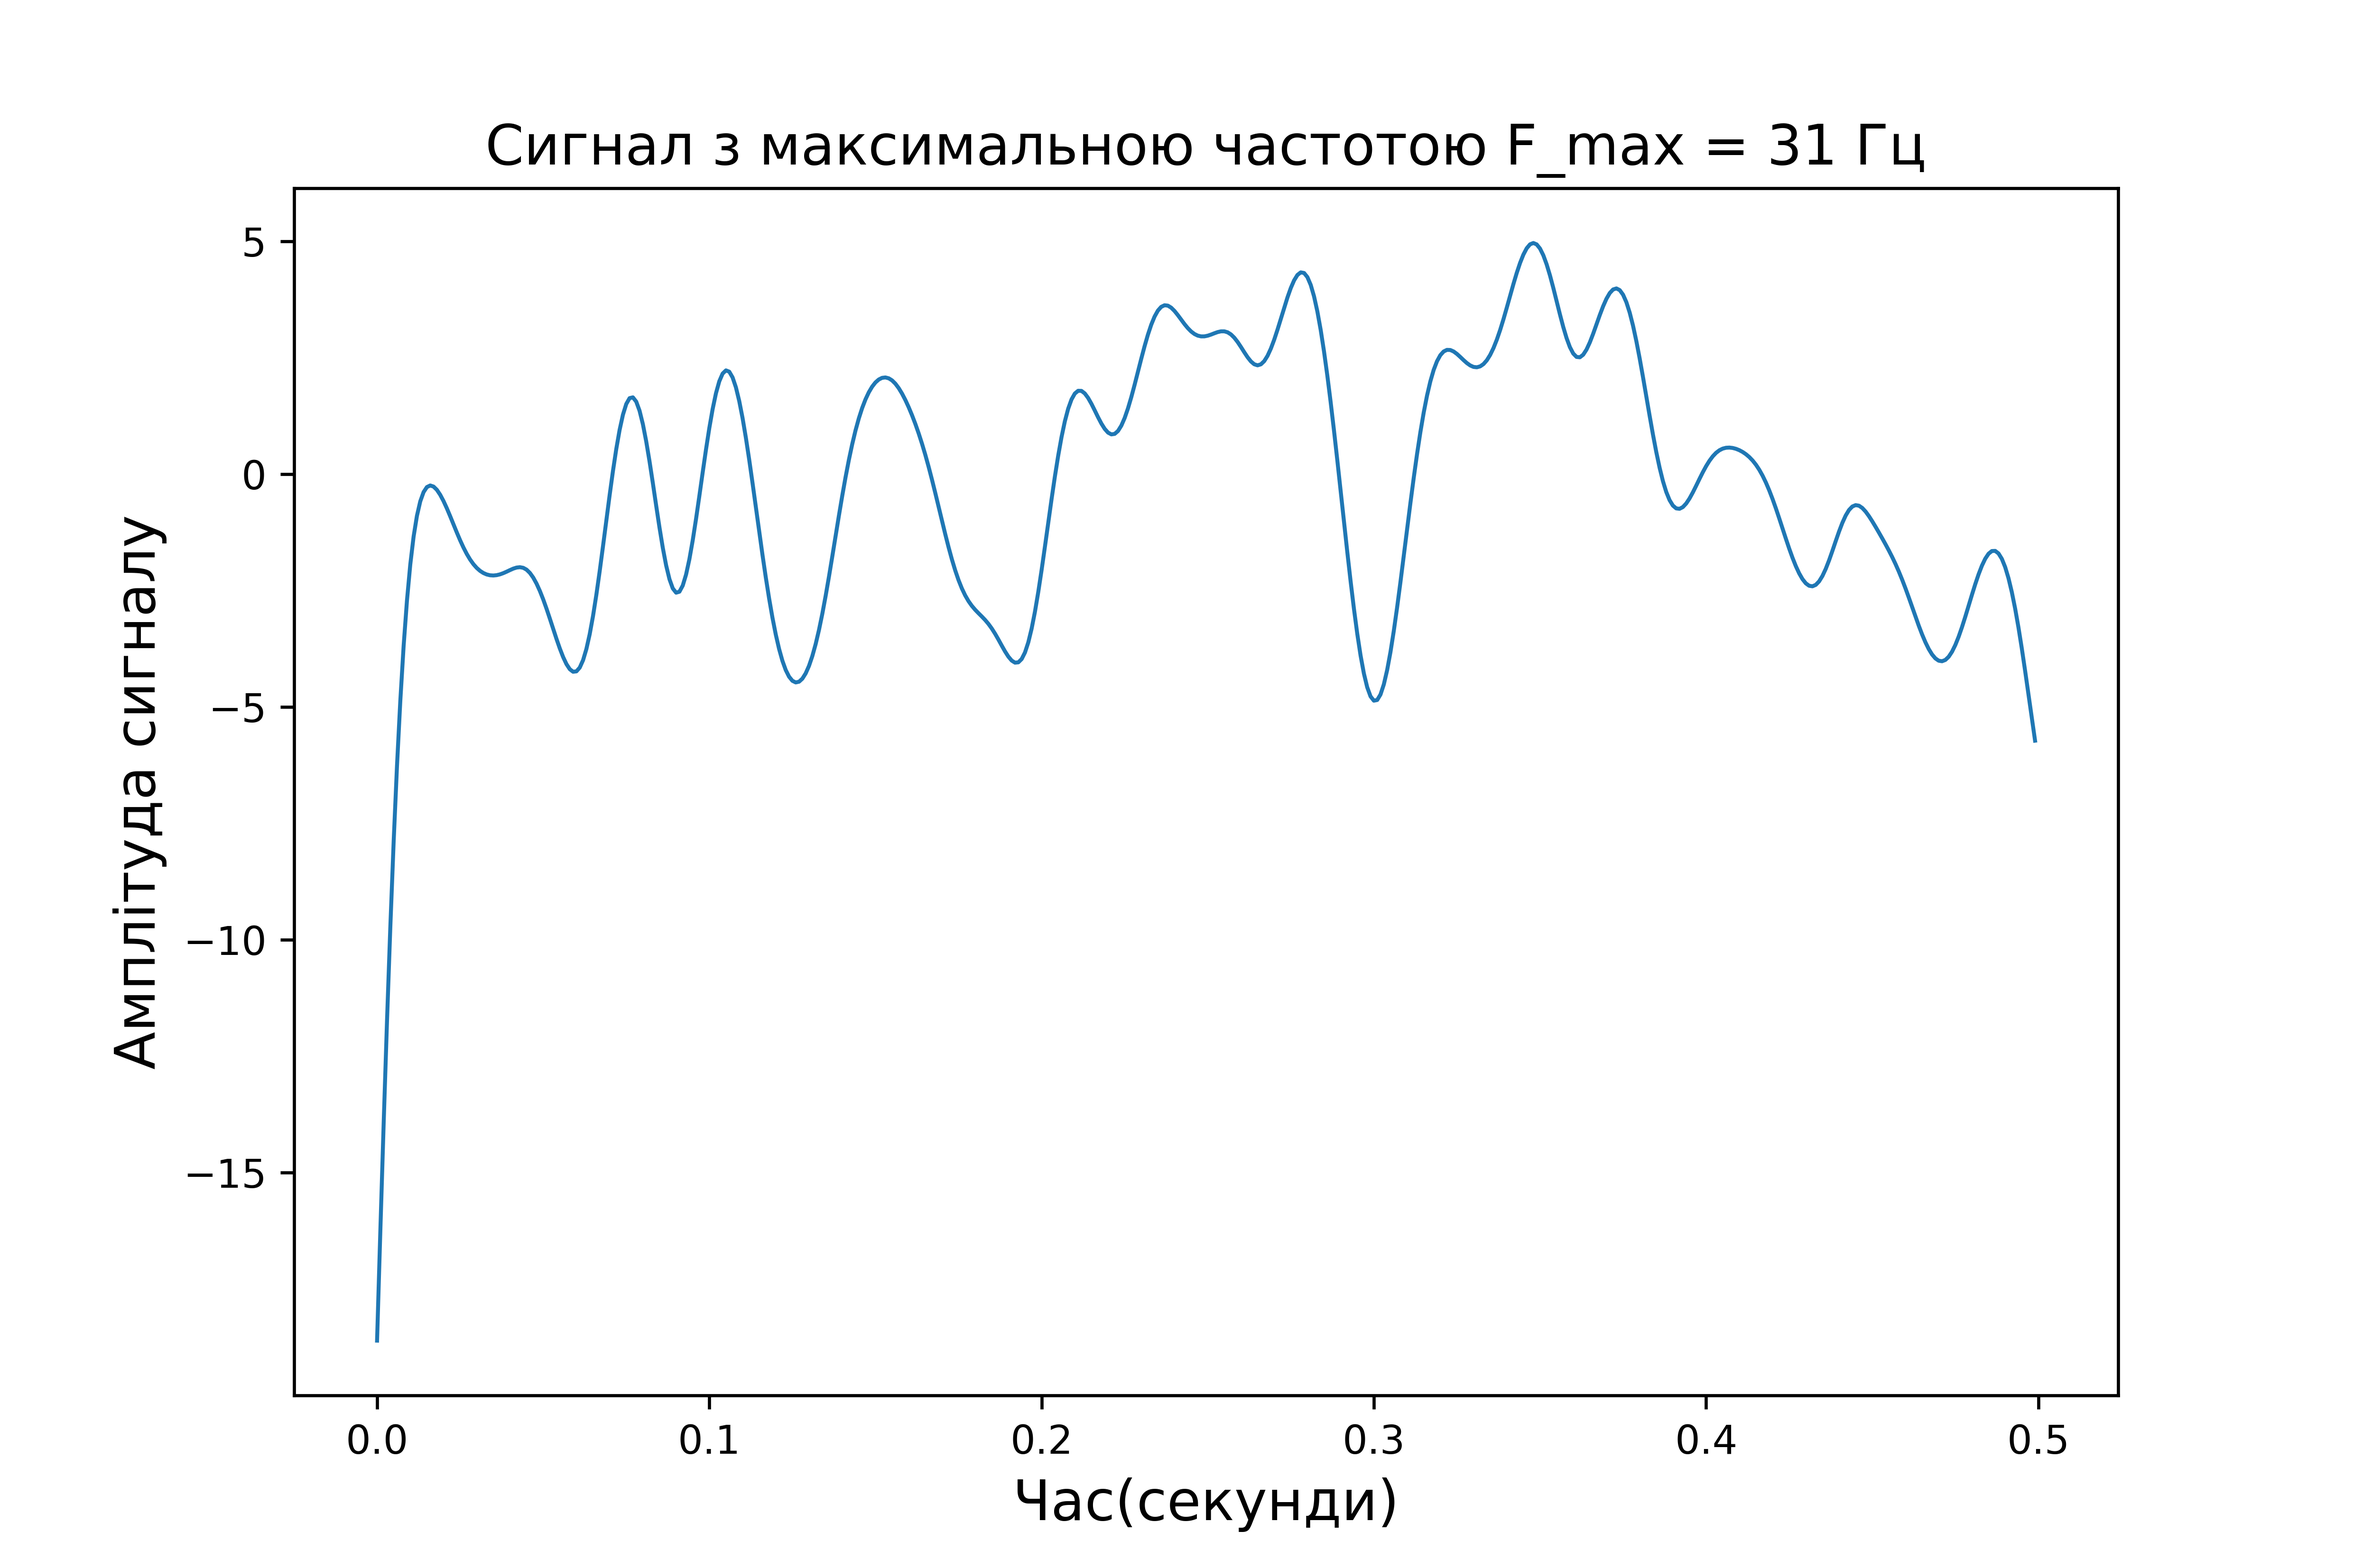
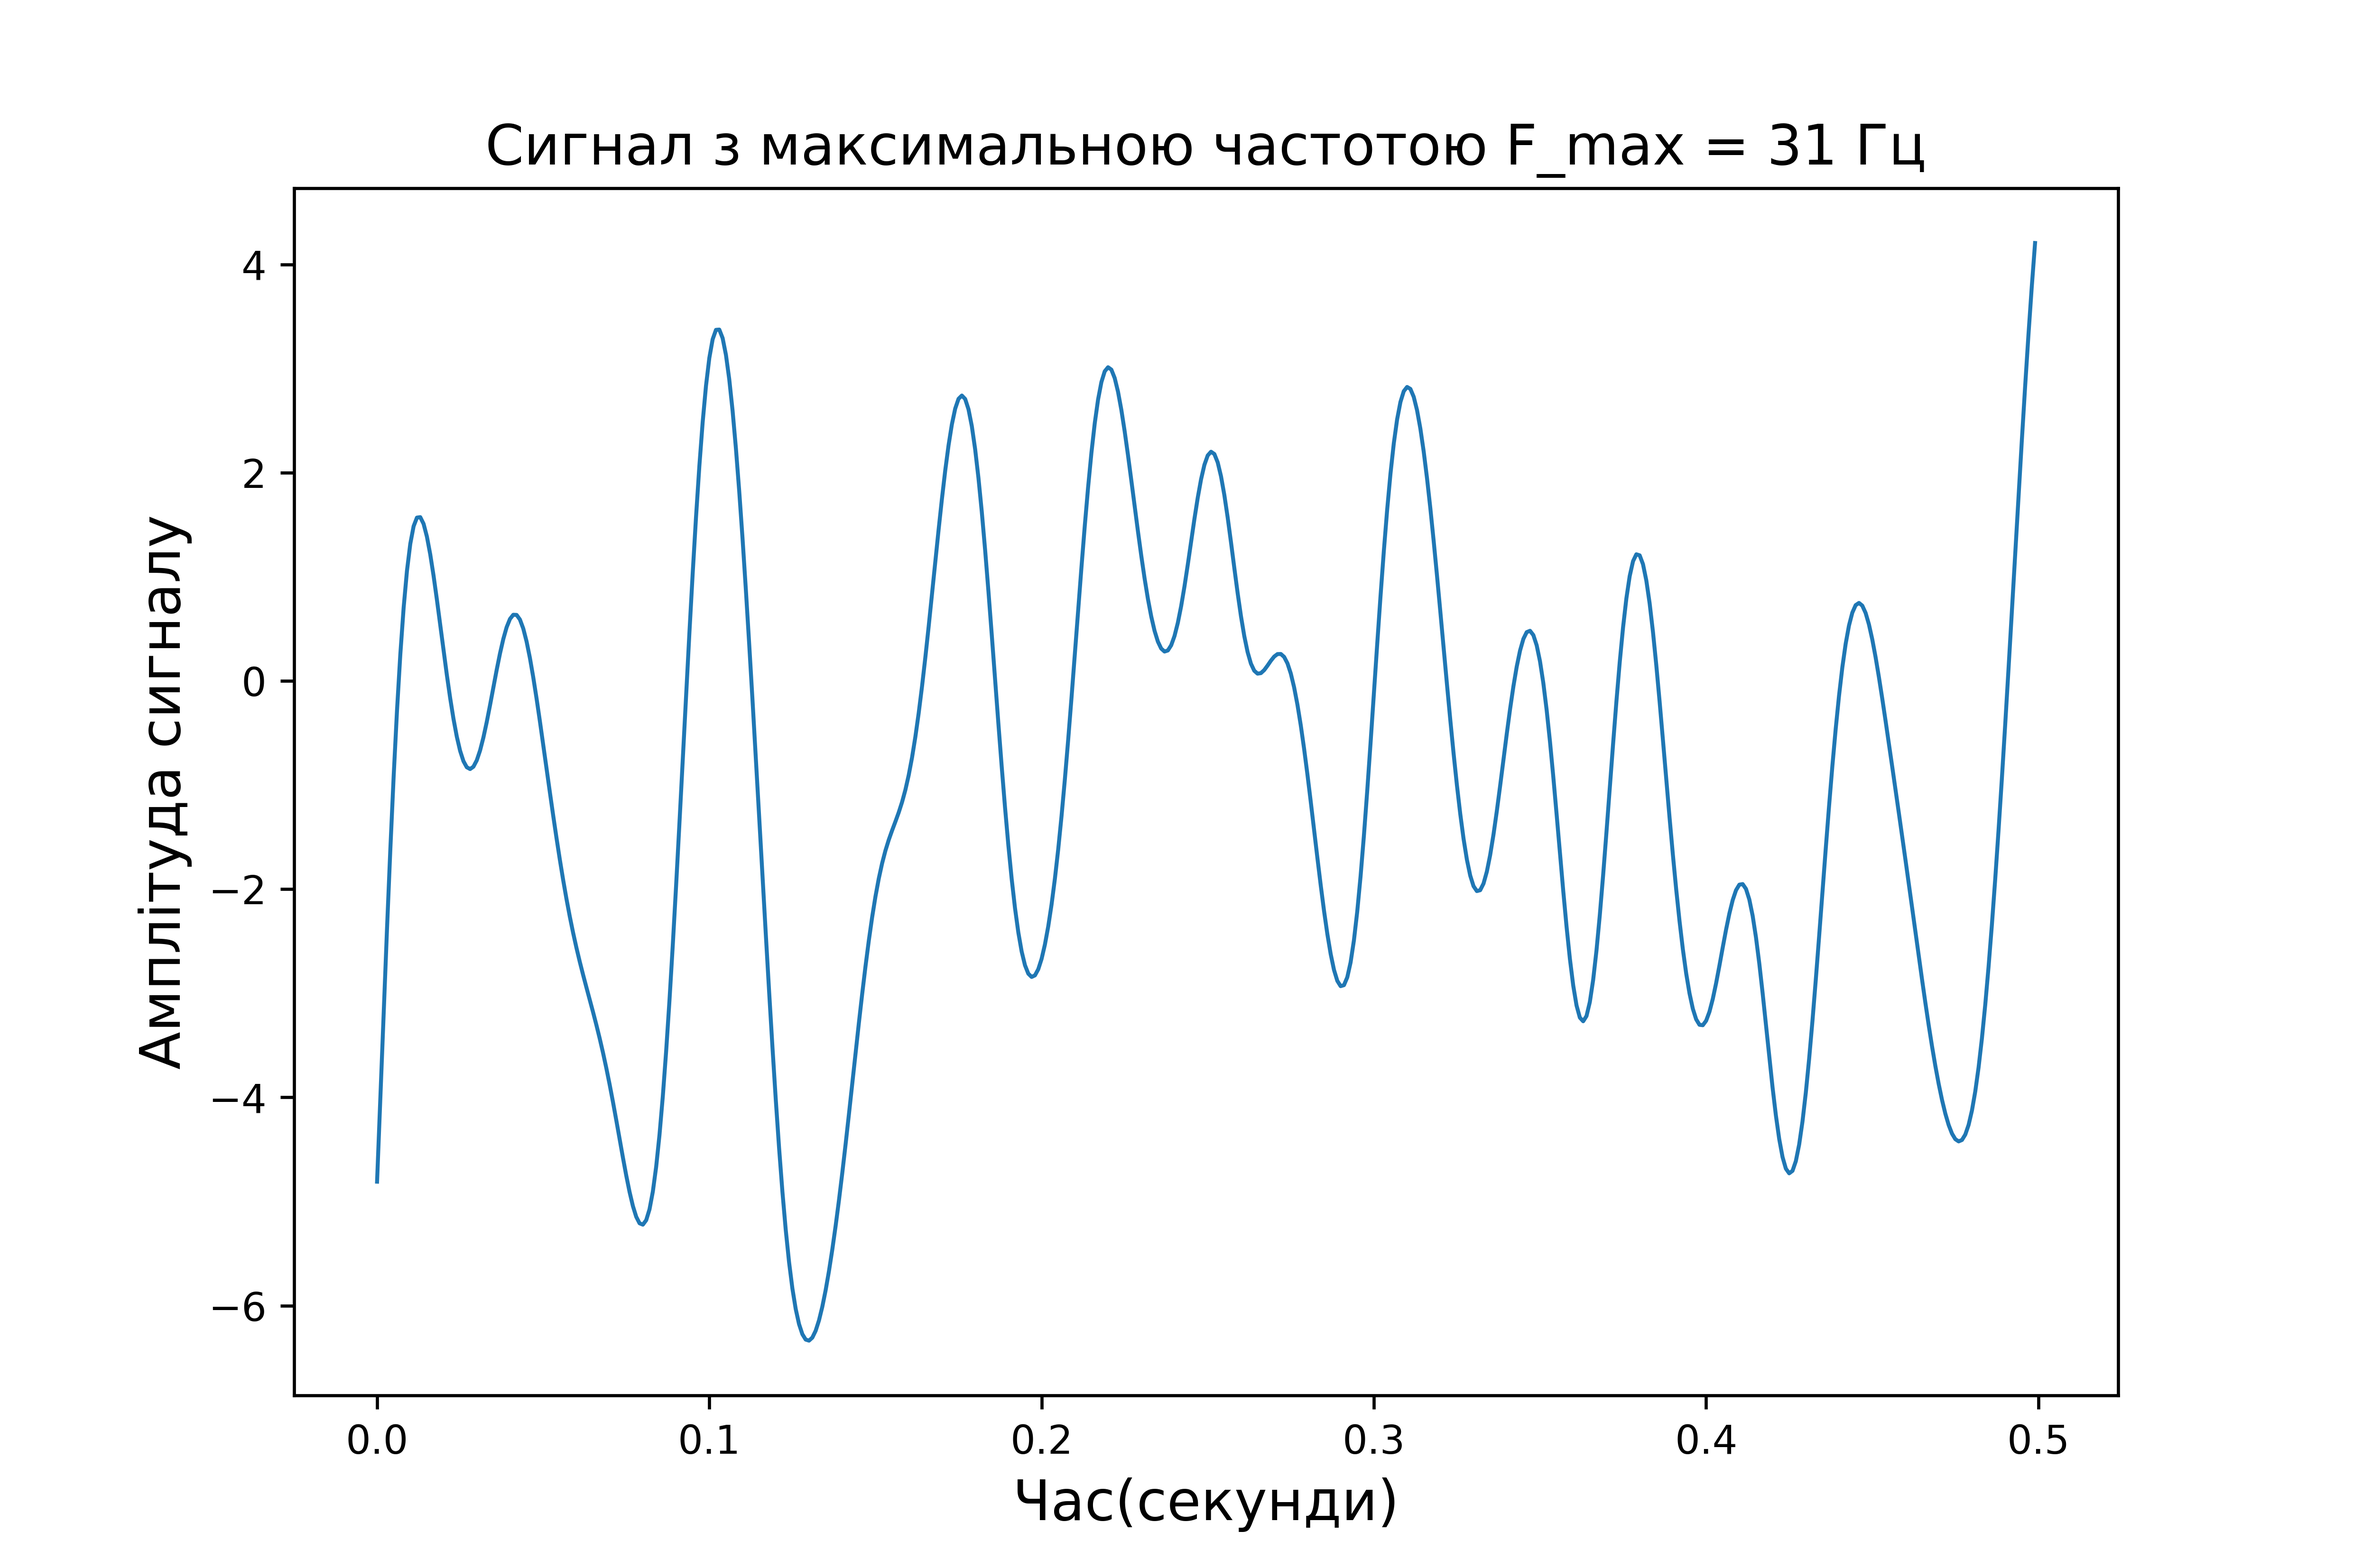
Signal processing, 2

diff --git a/SignalProcessing/SignalProcessing.py b/SignalProcessing/SignalProcessing.py
@@ -1,12 +1,13 @@
 #15 варіант
+import matplotlib.pyplot as plt
 import numpy
 import scipy
-from scipy import signal,fft
-import matplotlib.pyplot as plt
+from scipy import signal, fft
 
 n = 500
 Fs = 1000
 F_max = 31
+F_filter = 38
 
 #генерація сигналу
 random = numpy.random.normal(0, 10, n)
@@ -40,3 +41,79 @@ ax.set_ylabel("Амплітуда спектру", fontsize=14)
 plt.title("Спектр сигналу", fontsize=14)
 fig.savefig('./figures/'+'Спектр сигналу'+'.png', dpi=600)
 
+# Дискретизація сигналу
+discrete_signals = []
+discrete_spectrums = []
+signal_after_filers = []
+dispersion = []
+variance_dif = []
+
+for Dt in [2, 4, 8, 16]:
+    discrete_signal = numpy.zeros(n)
+    for i in range(0, round(n/Dt)):
+        discrete_signal[i * Dt] = y[i * Dt]
+    discrete_signals += [list(discrete_signal)]
+
+    # Розрахунок спектру сигналів
+    y_s = numpy.abs(scipy.fft.fftshift(scipy.fft.fft(discrete_signal)))
+    discrete_spectrums += [list(y_s)]
+
+    # Відновлення аналогового сигналу з дискретного
+    w = F_filter/(Fs/2)
+    parameters_filter = scipy.signal.butter(3, w, 'low', output='sos')
+    discrete_signal_after_filers = scipy.signal.sosfiltfilt(parameters_filter, discrete_signal)
+    signal_after_filers += [list(discrete_signal_after_filers)]
+
+    # розрахунок дисперсії
+    E1 = discrete_signal_after_filers - y
+    dispersion += [numpy.var(E1)]
+
+    # розрахунок співвідношення сигнал-шум
+    variance_dif += [numpy.var(y) / numpy.var(E1)]
+
+fig, ax = plt.subplots(2, 2, figsize=(21/2.54, 14/2.54))
+s = 0
+for i in range(0, 2):
+    for j in range(0, 2):
+        ax[i][j].plot(x, discrete_signals[s], linewidth=1)
+        s += 1
+fig.supxlabel('Час(секунди)', fontsize=14)
+fig.supylabel('Амплітуда сигналу', fontsize=14)
+fig.suptitle('Сигнал з кроком дискретизації Dt = (2, 4, 8, 16)', fontsize=14)
+fig.savefig('./figures/'+'Сигнал з кроком дискретизації'+'.png', dpi=600)
+
+fig, ax = plt.subplots(2, 2, figsize=(21/2.54, 14/2.54))
+s = 0
+for i in range(0, 2):
+    for j in range(0, 2):
+        ax[i][j].plot(x_s, discrete_spectrums[s], linewidth=1)
+        s += 1
+fig.supxlabel('Частота(Гц)', fontsize=14)
+fig.supylabel('Амплітуда спектру', fontsize=14)
+fig.suptitle('Спектри сигналів з кроком дискретизації Dt = (2, 4, 8, 16)', fontsize=14)
+fig.savefig('./figures/' + 'Спектр сигналів з кроком дискретизації' + '.png', dpi=600)
+
+fig, ax = plt.subplots(2, 2, figsize=(21/2.54, 14/2.54))
+s = 0
+for i in range(0, 2):
+    for j in range(0, 2):
+        ax[i][j].plot(x, signal_after_filers[s], linewidth=1)
+        s += 1
+fig.supxlabel('Час(секунди)', fontsize=14)
+fig.supylabel('Амплітуда сигналу', fontsize=14)
+fig.suptitle('Відновлені аналогові сигнали з кроком дискретизації Dt = (2, 4, 8, 16)', fontsize=14)
+fig.savefig('./figures/' + 'Відновлені аналогові сигнали з кроком дискретизації' + '.png', dpi=600)
+
+fig,ax = plt.subplots(figsize=(21/2.54, 14/2.54))
+ax.plot([2, 4, 8, 16], dispersion, linewidth=1)
+fig.supxlabel('Крок дискретизації', fontsize=14)
+fig.supylabel('Дисперсія', fontsize=14)
+fig.suptitle('Залежність дисперсії від кроку дискретизації', fontsize=14)
+fig.savefig('./figures/' + 'Залежність дисперсії від кроку дискретизації' + '.png', dpi=600)
+
+fig,ax = plt.subplots(figsize=(21/2.54, 14/2.54))
+ax.plot([2, 4, 8, 16], variance_dif, linewidth=1)
+fig.supxlabel('Крок дискретизації', fontsize=14)
+fig.supylabel('ССШ', fontsize=14)
+fig.suptitle('Залежність співвідношення сигнал-шум від кроку дискретизації', fontsize=14)
+fig.savefig('./figures/' + 'Залежність співвідношення сигнал-шум від кроку дискретизації' + '.png', dpi=600)
